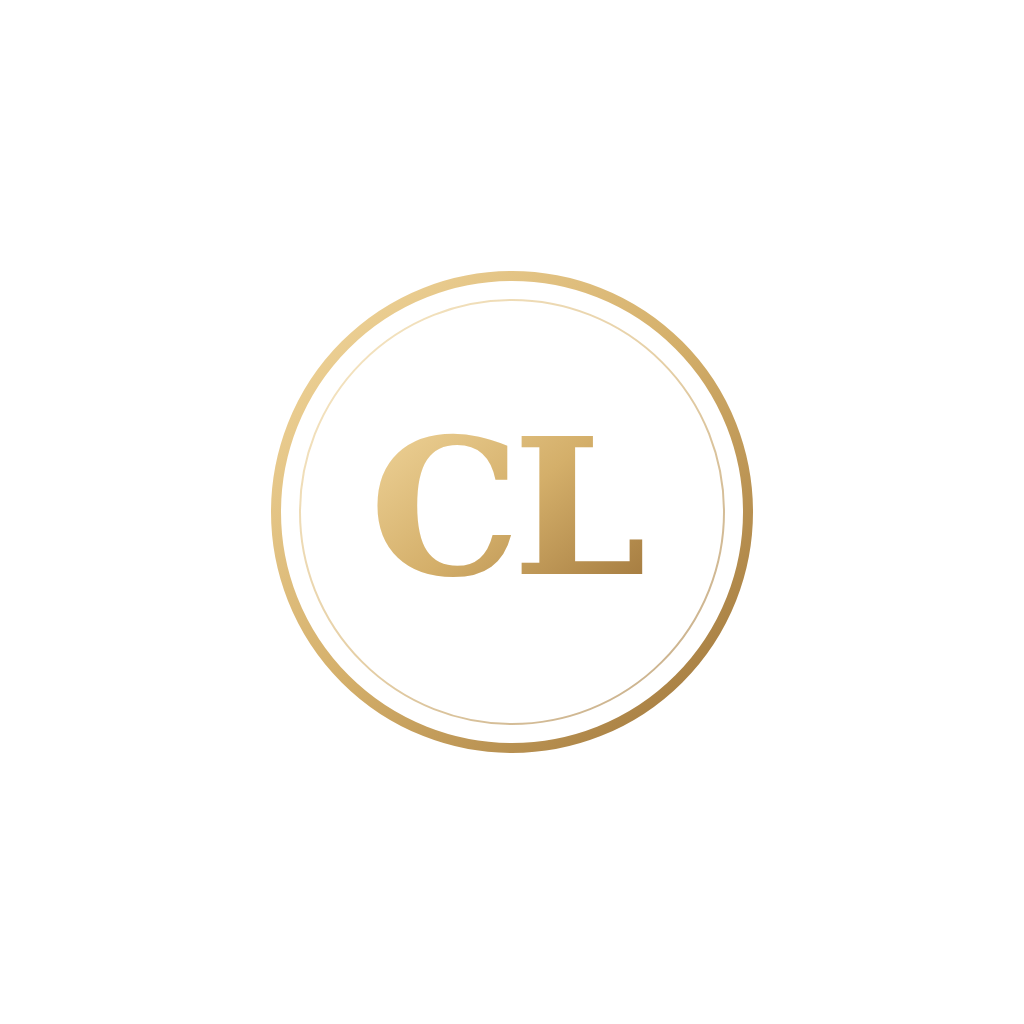
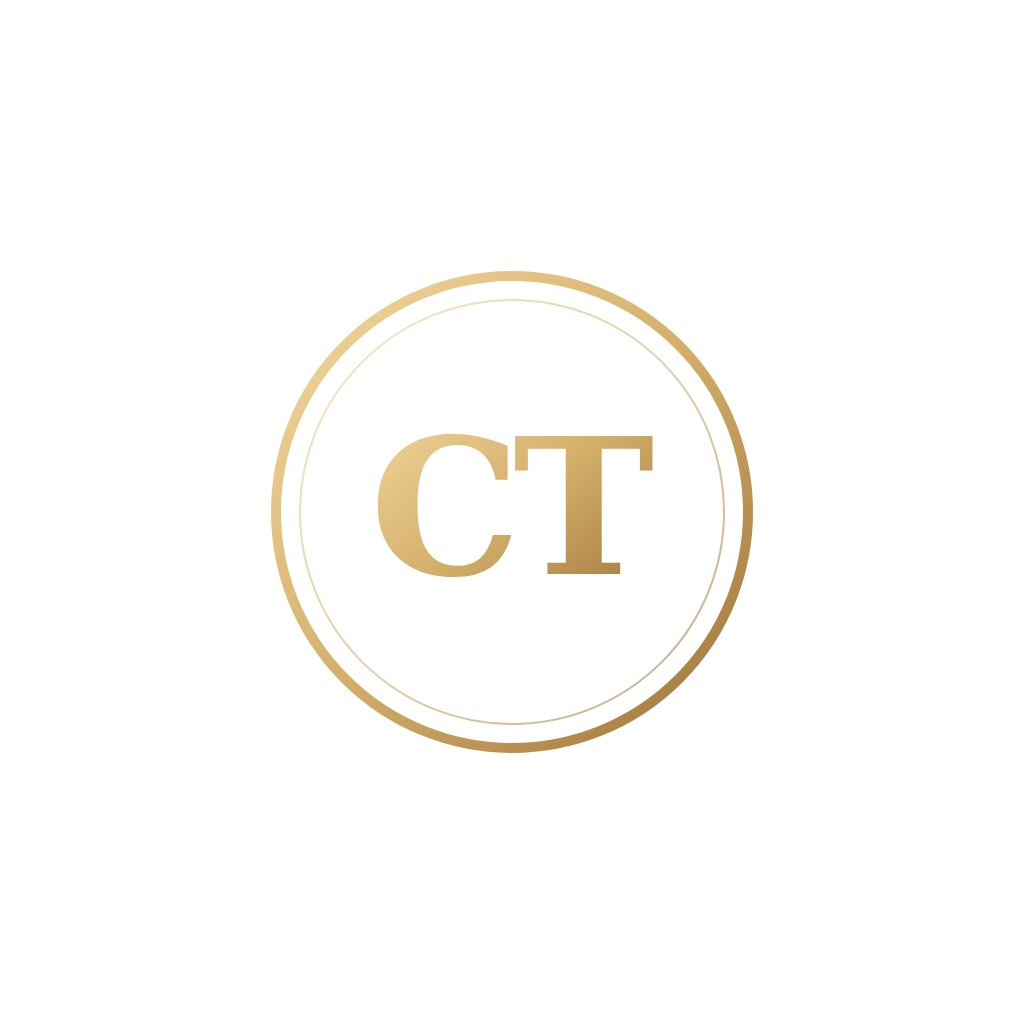
Coucou Toi branding and a live perfume catalog
- App renamed Coucou Toi with a CT monogram (icon, splash, notification)
- GET /catalog: products, sizes and prices read live from the store's
  Shopify site (decorative Unicode titles normalized), cached 10 min
- New order: perfume picker with photos, quantities and automatic
  products text + total
- Smart Seller prompt includes the catalog so messages map to real
  products and prices

Claude-Session: https://claude.ai/code/session_01M2ZiH2T1rffy2BDx2JrePd

Changed region(s): [[0.5, 0.4062, 0.6562, 0.5625]]

diff --git a/mobile/src/components/ProductPicker.js b/mobile/src/components/ProductPicker.js
@@ -1,0 +1,98 @@
+import React, { useEffect, useState, memo } from 'react';
+import { View, ScrollView, Image } from 'react-native';
+import { Ionicons } from '@expo/vector-icons';
+import { usePrefs } from '../context/Prefs';
+import { Txt, Press, Skeleton } from './ui';
+import { getCatalog } from '../api/catalog';
+import { formatTND } from '../lib/money';
+import { GOLD } from '../theme';
+
+/** Cart → the order's "products" text and total. */
+export const cartText = (cart) => cart.map((l) => `${l.name} ×${l.qty}`).join('\n');
+export const cartTotal = (cart) => cart.reduce((s, l) => s + l.price * l.qty, 0);
+
+/**
+ * Perfume picker for the order form: tap a product to add it, adjust the
+ * quantity, and the parent fills in the products text and total from it.
+ * Products and prices come live from the store's website.
+ */
+export default function ProductPicker({ cart, onChange }) {
+  const { t, th } = usePrefs();
+  const [products, setProducts] = useState(null);
+
+  useEffect(() => {
+    getCatalog().then(setProducts).catch(() => setProducts([]));
+  }, []);
+
+  const add = (p) => {
+    const i = cart.findIndex((l) => l.id === p.id);
+    if (i >= 0) onChange(cart.map((l, j) => (j === i ? { ...l, qty: l.qty + 1 } : l)));
+    else onChange([...cart, { id: p.id, name: p.name, price: p.price, qty: 1 }]);
+  };
+  const setQty = (id, qty) => onChange(qty <= 0 ? cart.filter((l) => l.id !== id) : cart.map((l) => (l.id === id ? { ...l, qty } : l)));
+
+  if (products && products.length === 0) return null; // catalog unavailable → free text only
+
+  return (
+    <View>
+      <Txt w="b" size={12.5} color={th.muted} style={{ marginTop: 14, marginBottom: 8 }}>{t.pickProducts}</Txt>
+      <ScrollView horizontal showsHorizontalScrollIndicator={false} contentContainerStyle={{ gap: 10, paddingBottom: 2 }}>
+        {products === null
+          ? [0, 1, 2].map((i) => <Skeleton key={i} w={118} h={168} r={18} />)
+          : products.map((p) => (
+            <ProductCard key={p.id} p={p} count={cart.find((l) => l.id === p.id)?.qty || 0} onPress={() => add(p)} />
+          ))}
+      </ScrollView>
+
+      {cart.length > 0 && (
+        <View style={{ marginTop: 12, backgroundColor: th.surface, borderRadius: 18, borderWidth: 1, borderColor: th.border, paddingHorizontal: 14 }}>
+          {cart.map((l, i) => (
+            <View key={l.id} style={{ flexDirection: 'row', alignItems: 'center', gap: 10, paddingVertical: 11, borderTopWidth: i ? 1 : 0, borderColor: th.border }}>
+              <View style={{ flex: 1 }}>
+                <Txt w="b" size={13} numberOfLines={2}>{l.name}</Txt>
+                <Txt size={12} color={th.accent} style={{ marginTop: 2 }}>{formatTND(l.price * l.qty)}</Txt>
+              </View>
+              <View style={{ flexDirection: 'row', alignItems: 'center', gap: 8, backgroundColor: th.raised, borderRadius: 14, padding: 4 }}>
+                <QtyBtn icon={l.qty === 1 ? 'trash-outline' : 'remove'} onPress={() => setQty(l.id, l.qty - 1)} />
+                <Txt w="x" size={15} style={{ minWidth: 20, textAlign: 'center' }}>{l.qty}</Txt>
+                <QtyBtn icon="add" onPress={() => setQty(l.id, l.qty + 1)} />
+              </View>
+            </View>
+          ))}
+        </View>
+      )}
+    </View>
+  );
+}
+
+const ProductCard = memo(function ProductCard({ p, count, onPress }) {
+  const { t, th } = usePrefs();
+  return (
+    <Press onPress={onPress} scale={0.95}
+      style={{ width: 118, borderRadius: 18, padding: 8, backgroundColor: th.surface, borderWidth: count ? 2 : 1, borderColor: count ? GOLD : th.border }}>
+      <View style={{ width: '100%', aspectRatio: 1, borderRadius: 13, overflow: 'hidden', backgroundColor: th.raised }}>
+        {p.image
+          ? <Image source={{ uri: `${p.image}${p.image.includes('?') ? '&' : '?'}width=240` }} style={{ width: '100%', height: '100%' }} resizeMode="cover" />
+          : <Ionicons name="flask-outline" size={34} color={th.accent} style={{ alignSelf: 'center', marginTop: 30 }} />}
+        {!!count && (
+          <View style={{ position: 'absolute', top: 6, right: 6, minWidth: 24, height: 24, borderRadius: 12, backgroundColor: GOLD, alignItems: 'center', justifyContent: 'center', paddingHorizontal: 5 }}>
+            <Txt w="x" size={12} color="#1A1214">{count}</Txt>
+          </View>
+        )}
+      </View>
+      <Txt w="b" size={11.5} numberOfLines={2} style={{ marginTop: 7, height: 34, lineHeight: 17, writingDirection: 'ltr', textAlign: 'left' }}>{p.name}</Txt>
+      <Txt w="x" size={13} color={th.accent} style={{ marginTop: 2 }}>{formatTND(p.price).replace('.000', '')}</Txt>
+      {!p.available && <Txt size={10} color={th.faint} style={{ marginTop: 1 }}>{t.notOnSite}</Txt>}
+    </Press>
+  );
+});
+
+function QtyBtn({ icon, onPress }) {
+  const { th } = usePrefs();
+  return (
+    <Press onPress={onPress} scale={0.85} style={{ width: 32, height: 32, borderRadius: 11, backgroundColor: th.surface, alignItems: 'center', justifyContent: 'center' }}>
+      <Ionicons name={icon} size={17} color={th.text} />
+    </Press>
+  );
+}
+

diff --git a/mobile/src/i18n/index.js b/mobile/src/i18n/index.js
@@ -1,6 +1,6 @@
 const ar = {
   dir: 'rtl',
-  appName: 'Coco Love',
+  appName: 'Coucou Toi',
   // tabs
   tabHome: 'الرئيسية', tabOrders: 'الطلبات', tabSmart: 'المساعد', tabScan: 'المسح', tabProfile: 'الإعدادات',
   // common
@@ -12,7 +12,7 @@ const ar = {
   pay_paid: 'مدفوع', pay_unpaid: 'غير مدفوع', pay_cod: 'عند الاستلام',
   src_whatsapp: 'واتساب', src_instagram: 'انستغرام', src_facebook: 'فيسبوك', src_tiktok: 'تيك توك', src_manual: 'يدوي',
   // auth
-  welcome: 'أهلاً بك', authSub: 'إدارة طلبات متجرك بأناقة',
+  welcome: 'أهلاً بك', authSub: 'إدارة طلبات عطور Coucou Toi بأناقة',
   signIn: 'تسجيل الدخول', signUp: 'إنشاء حساب', email: 'البريد الإلكتروني', password: 'كلمة المرور',
   fullName: 'الاسم الكامل', storeName: 'اسم المتجر', haveAccount: 'لديك حساب؟ سجّل الدخول', noAccount: 'ليس لديك حساب؟ أنشئ واحداً',
   badEmail: 'بريد إلكتروني غير صالح', badPass: 'كلمة المرور ٨ أحرف على الأقل', badLogin: 'البريد أو كلمة المرور غير صحيحة', emailTaken: 'هذا البريد مستخدم مسبقاً',
@@ -54,7 +54,7 @@ const ar = {
   storeInfo: 'معلومات المتجر', storeInfoHint: 'تظهر على الفواتير وصفحة التتبع', storePhone: 'هاتف المتجر', storeAddress: 'عنوان المتجر',
   yourName: 'اسمك', saved: 'تم الحفظ', preferences: 'التفضيلات', language: 'اللغة', theme: 'المظهر', dark: 'داكن', light: 'فاتح',
   security: 'الأمان والإشعارات', appLock: 'قفل التطبيق بالبصمة', pushNotif: 'إشعارات الهاتف',
-  pushOn: 'مفعّلة', pushOff: 'غير مفعّلة', pushLocal: 'مفعّلة داخل التطبيق', testNotif: 'إرسال إشعار تجريبي', testSent: 'تم الإرسال — سيصلك الإشعار خلال ثوانٍ', logout: 'تسجيل الخروج', server: 'الخادم', version: 'الإصدار',
+  pushOn: 'مفعّلة', pushOff: 'غير مفعّلة', pushLocal: 'مفعّلة داخل التطبيق', testNotif: 'إرسال إشعار تجريبي', pickProducts: 'اختر العطور', notOnSite: 'غير متوفر بالموقع', testSent: 'تم الإرسال — سيصلك الإشعار خلال ثوانٍ', logout: 'تسجيل الخروج', server: 'الخادم', version: 'الإصدار',
   timeAgoNow: 'الآن', minutes: 'د', hours: 'س',
 };
 
@@ -67,7 +67,7 @@ const en = {
   st_new: 'New', st_processing: 'Preparing', st_shipped: 'Shipped', st_delivered: 'Delivered',
   pay_paid: 'Paid', pay_unpaid: 'Unpaid', pay_cod: 'Cash on delivery',
   src_whatsapp: 'WhatsApp', src_instagram: 'Instagram', src_facebook: 'Facebook', src_tiktok: 'TikTok', src_manual: 'Manual',
-  welcome: 'Welcome', authSub: 'Manage your store orders, elegantly',
+  welcome: 'Welcome', authSub: 'Manage Coucou Toi perfume orders, elegantly',
   signIn: 'Sign in', signUp: 'Create account', email: 'Email', password: 'Password',
   fullName: 'Full name', storeName: 'Store name', haveAccount: 'Have an account? Sign in', noAccount: 'No account? Create one',
   badEmail: 'Invalid email', badPass: 'Password must be 8+ characters', badLogin: 'Wrong email or password', emailTaken: 'Email already in use',
@@ -102,7 +102,7 @@ const en = {
   storeInfo: 'Store details', storeInfoHint: 'Shown on invoices and the tracking page', storePhone: 'Store phone', storeAddress: 'Store address',
   yourName: 'Your name', saved: 'Saved', preferences: 'Preferences', language: 'Language', theme: 'Theme', dark: 'Dark', light: 'Light',
   security: 'Security & notifications', appLock: 'Biometric app lock', pushNotif: 'Phone notifications',
-  pushOn: 'On', pushOff: 'Off', pushLocal: 'In-app only', testNotif: 'Send a test notification', testSent: 'Sent — it should arrive in a few seconds', logout: 'Sign out', server: 'Server', version: 'Version',
+  pushOn: 'On', pushOff: 'Off', pushLocal: 'In-app only', testNotif: 'Send a test notification', pickProducts: 'Pick perfumes', notOnSite: 'Sold out online', testSent: 'Sent — it should arrive in a few seconds', logout: 'Sign out', server: 'Server', version: 'Version',
   timeAgoNow: 'now', minutes: 'm', hours: 'h',
 };
 

diff --git a/mobile/src/screens/AddOrderSheet.js b/mobile/src/screens/AddOrderSheet.js
@@ -5,6 +5,7 @@ import { usePrefs } from '../context/Prefs';
 import { Txt, Input, Chip, Button, haptic } from '../components/ui';
 import { SOURCES, PAY_KEYS, PAY_COLORS, RED } from '../theme';
 import { createOrder, updateOrder } from '../api/orders';
+import ProductPicker, { cartText, cartTotal } from '../components/ProductPicker';
 
 const EMPTY = { customer: '', phone: '', city: '', items: '', total: '', source: 'manual', pay: 'cod' };
 
@@ -14,16 +15,24 @@ export default function AddOrderSheet({ visible, editing, onClose, onSaved }) {
   const [f, setF] = useState(EMPTY);
   const [saving, setSaving] = useState(false);
   const [err, setErr] = useState('');
+  const [cart, setCart] = useState([]);
 
   useEffect(() => {
     if (!visible) return;
     setErr('');
+    setCart([]);
     setF(editing
       ? { customer: editing.customer, phone: editing.phone, city: editing.city || '', items: editing.items || '', total: String(editing.total), source: editing.source, pay: editing.pay }
       : EMPTY);
   }, [visible, editing]);
 
   const set = (k) => (v) => setF((s) => ({ ...s, [k]: v }));
+
+  // Picking perfumes fills in the products text and the total automatically.
+  const onCart = (next) => {
+    setCart(next);
+    setF((s) => ({ ...s, items: cartText(next), total: next.length ? String(cartTotal(next)) : s.total }));
+  };
 
   const save = async () => {
     const total = parseFloat(String(f.total).replace(',', '.'));
@@ -58,7 +67,8 @@ export default function AddOrderSheet({ visible, editing, onClose, onSaved }) {
       <Input label={`${t.customer} *`} icon="person-outline" value={f.customer} onChangeText={set('customer')} />
       <Input label={`${t.phone} *`} icon="call-outline" keyboardType="phone-pad" placeholder="22 123 456" value={f.phone} onChangeText={set('phone')} />
       <Input label={t.city} icon="location-outline" value={f.city} onChangeText={set('city')} />
-      <Input label={t.products} icon="pricetags-outline" value={f.items} onChangeText={set('items')} multiline placeholder="فستان أحمر M ×1" />
+      {!editing && <ProductPicker cart={cart} onChange={onCart} />}
+      <Input label={t.products} icon="pricetags-outline" value={f.items} onChangeText={set('items')} multiline placeholder="COUCOU TOI 100 ML ×1" />
       <Input label={`${t.amount} (د.ت) *`} icon="cash-outline" keyboardType="decimal-pad" placeholder="0.000" value={f.total} onChangeText={set('total')} />
 
       <Txt w="b" size={12.5} color={th.muted} style={{ marginTop: 14, marginBottom: 8 }}>{t.payStatus}</Txt>

diff --git a/server/src/lib/catalog.js b/server/src/lib/catalog.js
@@ -1,0 +1,55 @@
+/**
+ * Product catalog, read live from the store's Shopify site (products.json is
+ * public). Prices and availability stay in sync with the website without
+ * any manual entry. Cached in memory for a few minutes per server instance.
+ */
+const SHOP_URL = (process.env.SHOP_URL || 'https://aronaperfume.com').replace(/\/+$/, '');
+const TTL_MS = 10 * 60 * 1000;
+
+let cache = { at: 0, items: [] };
+
+// Shopify titles use decorative Unicode (𝐂𝐎𝐔𝐂𝐎𝐔 𝐓𝐎𝐈 𝟻𝟶 𝙼𝙻, ꜱᴜᴍᴍᴇʀ ᴛɪᴍᴇ).
+// NFKC turns the math alphabets into plain letters; small caps need a map.
+const SMALL_CAPS = { ᴀ: 'A', ʙ: 'B', ᴄ: 'C', ᴅ: 'D', ᴇ: 'E', ꜰ: 'F', ɢ: 'G', ʜ: 'H', ɪ: 'I', ᴊ: 'J', ᴋ: 'K', ʟ: 'L', ᴍ: 'M', ɴ: 'N', ᴏ: 'O', ᴘ: 'P', ʀ: 'R', ꜱ: 'S', ᴛ: 'T', ᴜ: 'U', ᴠ: 'V', ᴡ: 'W', ʏ: 'Y', ᴢ: 'Z' };
+
+function cleanTitle(s) {
+  return String(s || '')
+    .normalize('NFKC')
+    .replace(/[ᴀ-ᴫꜰ-ꟿɐ-ʯ]/g, (c) => SMALL_CAPS[c] || c)
+    .replace(/\s+/g, ' ')
+    .replace(/\(\s*/g, '(').replace(/\s*\)/g, ')')
+    .replace(/(\d+)\s*ML/gi, '$1 ML')
+    .trim()
+    .toUpperCase();
+}
+
+async function getCatalog() {
+  if (Date.now() - cache.at < TTL_MS && cache.items.length) return cache.items;
+  try {
+    const res = await fetch(`${SHOP_URL}/products.json?limit=250`, { headers: { Accept: 'application/json' } });
+    if (!res.ok) throw new Error(`shop responded ${res.status}`);
+    const data = await res.json();
+    const items = [];
+    for (const p of data.products || []) {
+      for (const v of p.variants || []) {
+        const name = cleanTitle(v.title && v.title !== 'Default Title' ? `${p.title} ${v.title}` : p.title);
+        items.push({
+          id: String(v.id),
+          name,
+          price: Number(v.price),
+          available: v.available !== false,
+          image: (v.featured_image?.src || p.images?.[0]?.src || null),
+        });
+      }
+    }
+    // Available first, then by name.
+    items.sort((a, b) => (b.available - a.available) || a.name.localeCompare(b.name));
+    cache = { at: Date.now(), items };
+    return items;
+  } catch (e) {
+    console.error('catalog fetch failed', e.message);
+    return cache.items; // last good copy (possibly empty)
+  }
+}
+
+module.exports = { getCatalog, cleanTitle };

diff --git a/server/src/services/aiPipeline.js b/server/src/services/aiPipeline.js
@@ -6,7 +6,9 @@
  * a PendingOrder that a human approves (see routes/pendingOrders.js).
  */
 
-const EXTRACTION_PROMPT = `أنت مساعد استلام طلبات لمتجر تجارة إلكترونية على وسائل التواصل الاجتماعي.
+const { getCatalog } = require('../lib/catalog');
+
+const EXTRACTION_PROMPT = `أنت مساعد استلام طلبات لمتجر عطور على وسائل التواصل الاجتماعي (تونس).
 اقرأ رسالة العميل (وقد تكون نص، أو تفريغ رسالة صوتية، أو وصف صورة) واستخرج معلومات الطلب.
 أعد النتيجة بصيغة JSON فقط وفق هذا الشكل بالضبط، بدون أي نص إضافي:
 {
@@ -72,7 +74,11 @@ async function extractOrder({ text, imageUrl }) {
   if (!text && !imageUrl) return empty('empty');
 
   try {
-    const parts = [{ text: `${EXTRACTION_PROMPT}\n\nرسالة العميل:\n${text || '(بدون نص، انظر الصورة المرفقة)'}` }];
+    const catalog = await getCatalog();
+    const catalogText = catalog.length
+      ? `\n\nقائمة منتجات المتجر وأسعارها بالدينار (استعمل الاسم كما هو مكتوب هنا في حقل items، واحسب total من هذه الأسعار × الكمية إن لم يذكر العميل مبلغاً):\n${catalog.map((p) => `- ${p.name}: ${p.price}`).join('\n')}`
+      : '';
+    const parts = [{ text: `${EXTRACTION_PROMPT}${catalogText}\n\nرسالة العميل:\n${text || '(بدون نص، انظر الصورة المرفقة)'}` }];
 
     if (imageUrl) {
       const imgRes = await fetch(imageUrl);

diff --git a/server/src/app.js b/server/src/app.js
@@ -17,6 +17,7 @@ const notificationRoutes = require('./routes/notifications');
 const dashboardRoutes = require('./routes/dashboard');
 const visitRoutes = require('./routes/visits');
 const trackingRoutes = require('./routes/tracking');
+const catalogRoutes = require('./routes/catalog');
 
 const app = express();
 
@@ -53,6 +54,7 @@ app.use('/billing', billingRoutes);
 app.use('/notifications', notificationRoutes);
 app.use('/dashboard', dashboardRoutes);
 app.use('/visits', visitRoutes);
+app.use('/catalog', catalogRoutes);
 app.use('/t', trackingRoutes); // public order-tracking page sent to customers
 app.use('/webhooks', webhookRoutes); // public — Meta/TikTok call these directly, auth is per-provider signature/token
 

diff --git a/server/src/routes/notifications.js b/server/src/routes/notifications.js
@@ -41,7 +41,7 @@ router.put('/push-token', validate(tokenSchema), async (req, res) => {
 
 // "Send a test notification" button in Settings.
 router.post('/test', async (req, res) => {
-  await notify(req.user.id, { type: 'test', title: '🔔 Coco Love', body: 'الإشعارات تعمل بنجاح ✨' });
+  await notify(req.user.id, { type: 'test', title: '🔔 Coucou Toi', body: 'الإشعارات تعمل بنجاح ✨' });
   res.json({ ok: true, push: !!req.user.pushToken });
 });
 

diff --git a/server/src/routes/catalog.js b/server/src/routes/catalog.js
@@ -1,0 +1,12 @@
+const express = require('express');
+const { requireAuth } = require('../middleware/auth');
+const { getCatalog } = require('../lib/catalog');
+
+const router = express.Router();
+
+// Store products (live from the website) for the order form's product picker.
+router.get('/', requireAuth, async (req, res) => {
+  res.json({ products: await getCatalog() });
+});
+
+module.exports = router;

diff --git a/mobile/src/api/catalog.js b/mobile/src/api/catalog.js
@@ -1,0 +1,11 @@
+import { api } from './client';
+
+let cached = null;
+
+/** Store products (live from the website via the server), cached per app session. */
+export async function getCatalog() {
+  if (cached) return cached;
+  const { products } = await api('/catalog');
+  cached = products || [];
+  return cached;
+}
